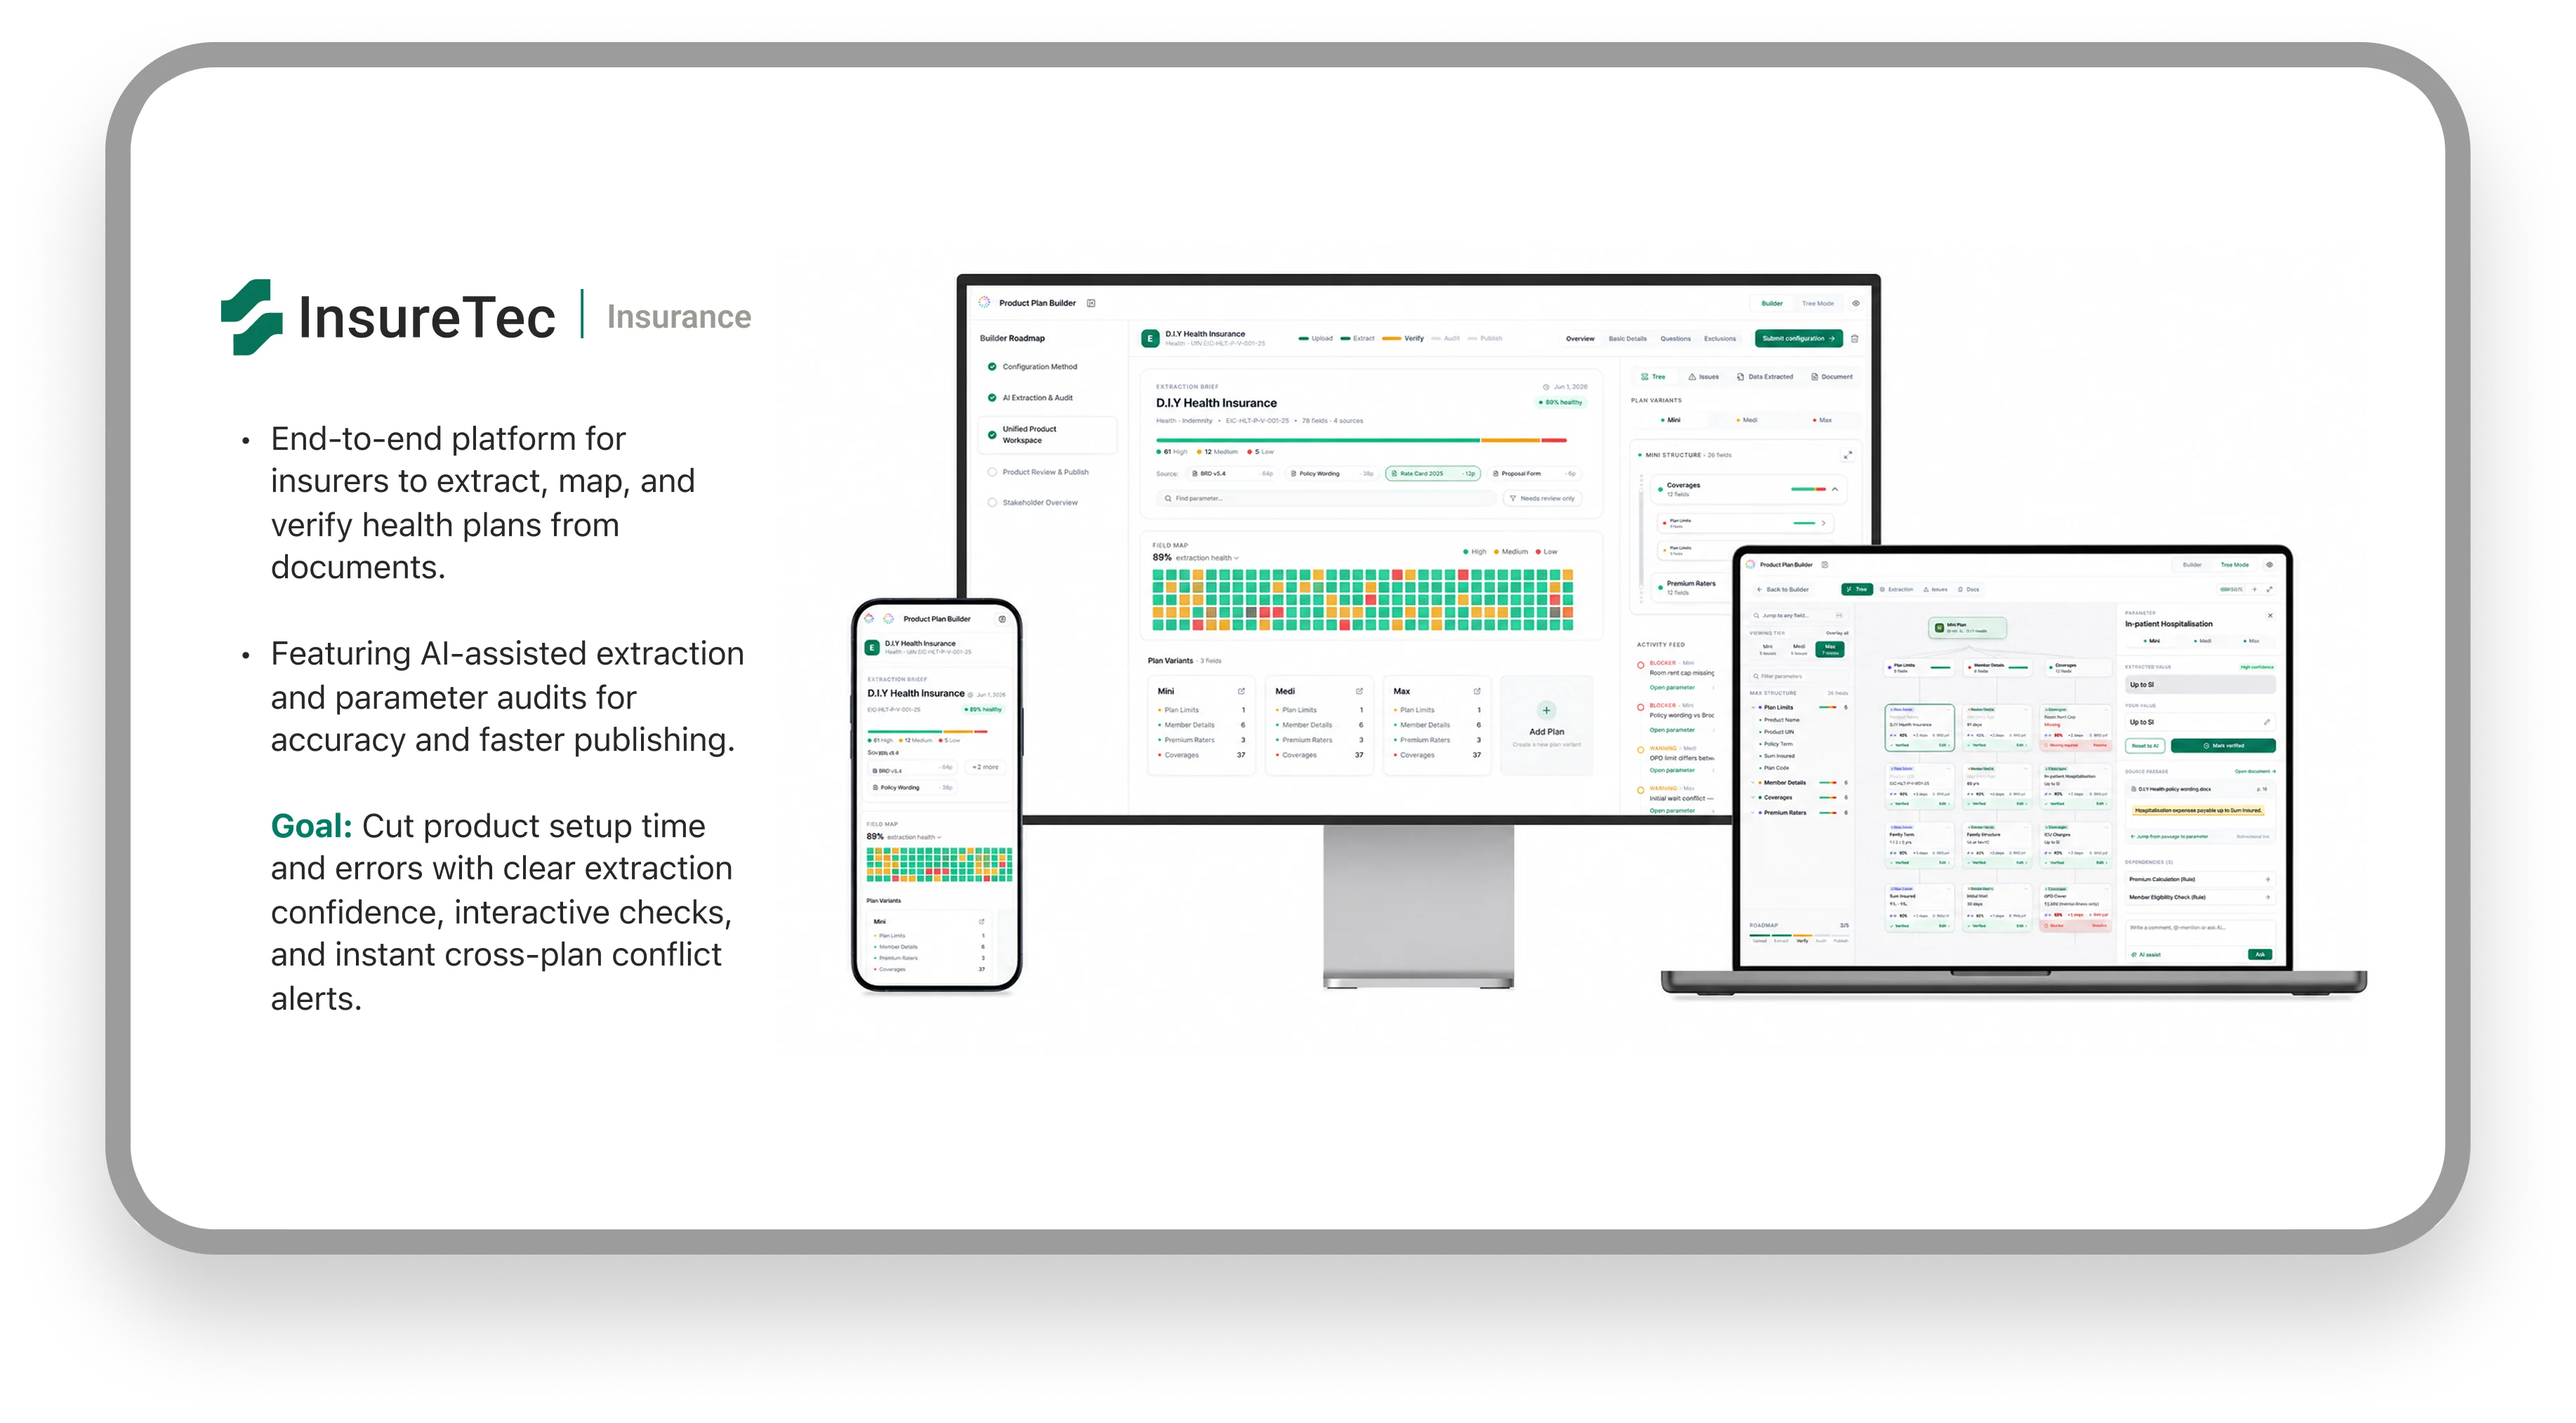
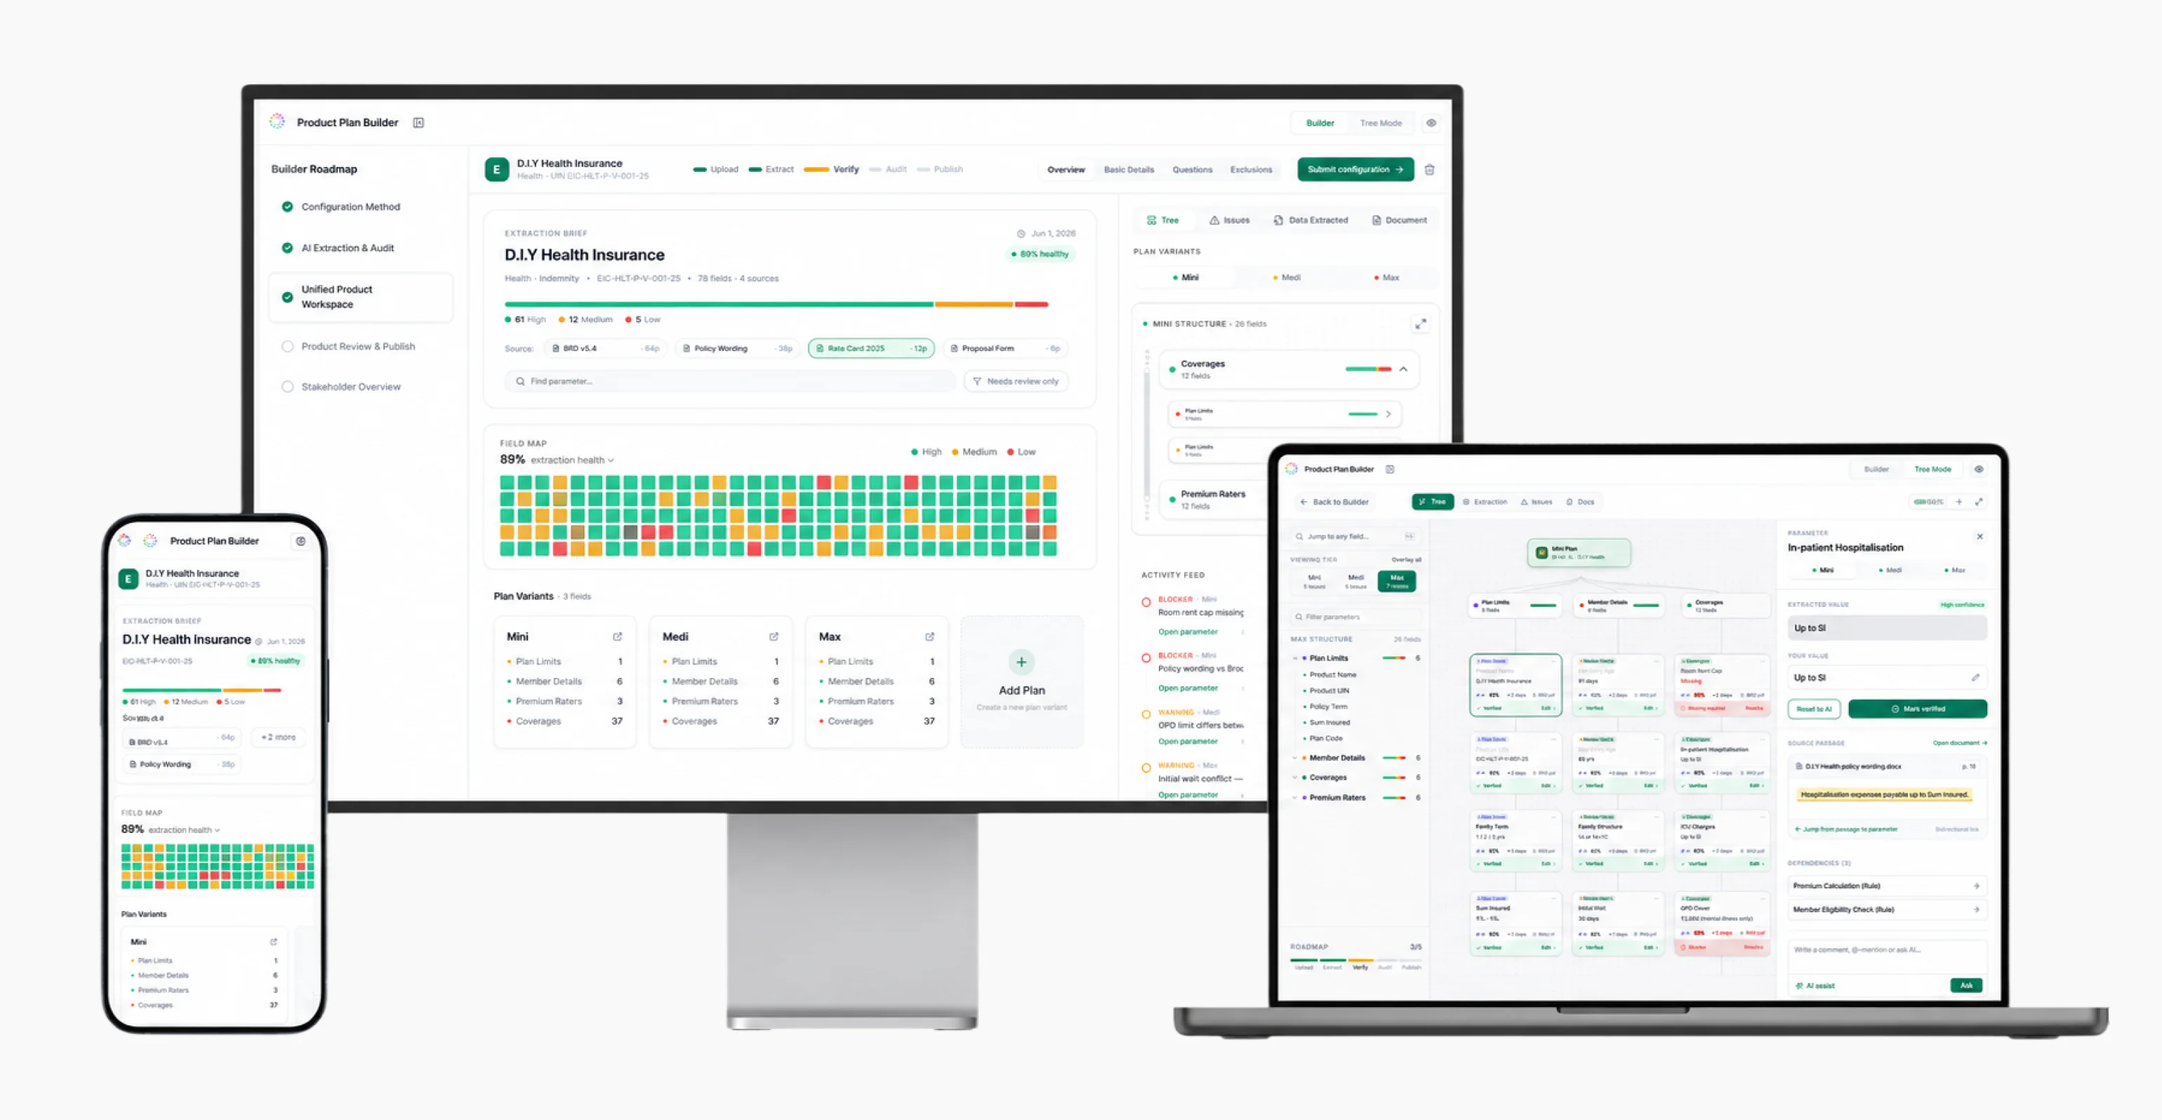
feat: update Insure-Tech case study hero with new multi-device mockup
Replace /images/insure-tech-devices.webp with the same updated mockup
used for the thumbnail (Product Plan Builder UI on monitor + iPhone +
MacBook, 3080x1596). Update <Image> width/height in CaseStudy.tsx to
match the new asset's actual dimensions.

Changed region(s): [[0.0312, 0.0307, 0.9974, 0.9518], [0.2182, 0.1228, 0.2805, 0.1842], [0.3429, 0.1228, 0.4052, 0.1535]]

diff --git a/src/components/caseStudy/insure-tech/CaseStudy.tsx b/src/components/caseStudy/insure-tech/CaseStudy.tsx
@@ -415,8 +415,8 @@ export default function CaseStudy({ onOpenPrototype }: { onOpenPrototype: (step?
           <Image
             src="/images/insure-tech-devices.webp"
             alt="Insure-Tech Product Plan Builder Multi-Device View"
-            width={3669}
-            height={2028}
+            width={3080}
+            height={1596}
             priority
             sizes="100vw"
             style={{ width: "100%", height: "auto", display: "block" }}
